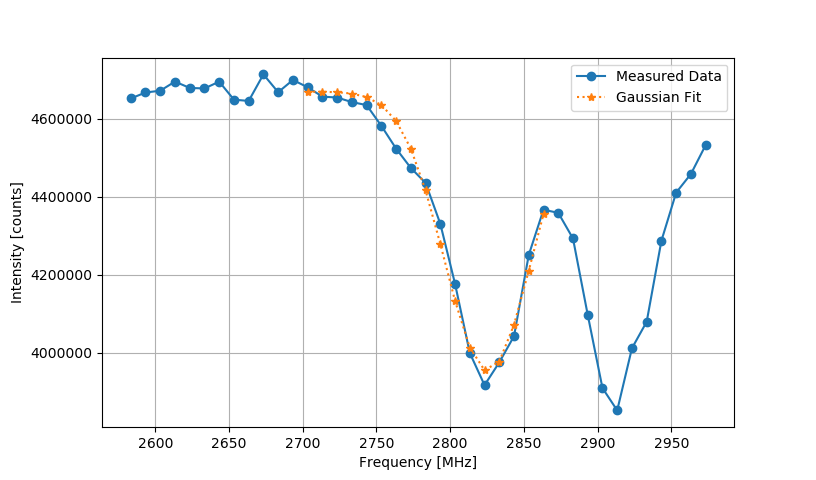
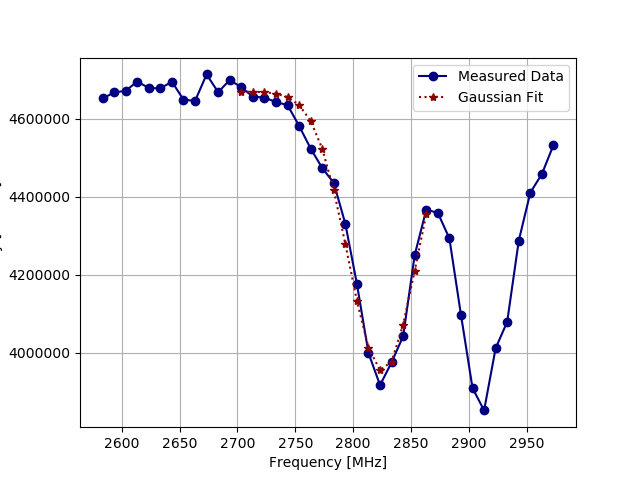
Updated odmr plots and added frequency_vs_voltage analysis.

diff --git a/plot_data.py b/plot_data.py
@@ -4,16 +4,36 @@ import numpy as np
 from scipy.optimize import curve_fit
 
 
-from scripts.math_functions import gaussian, exponential, exponentially_decaying_gaussian, exponentially_decaying_cosine, scale_values_to_unity, exponentially_decaying_sine
+from scripts.math_functions import gaussian, exponential, exponentially_decaying_gaussian, exponentially_decaying_cosine, scale_values_to_unity, exponentially_decaying_sine, linear_function
 from scripts.data_handling import compute_background_intensity, adjust_intensity, trim_data, read_data, average_data
 
 
+def plot_data_voltage_frequency_correlation(x_values, y_values):
+	popt = curve_fit(linear_function, x_values, y_values)
+	slope, interceipt = popt[0]
+
+	y_values_fit = linear_function(x_values, slope, interceipt)
+
+	plt.plot(x_values, y_values, 'o-', label='Measured Data', color="navy")
+	plt.plot(x_values, y_values_fit, '*',
+			 label=f'Fit Data with y = {slope:.2f} $\cdot$ x [ MHz/V] + {interceipt:.2f} [MHz]', color="darkred")
+
+	plt.grid()
+
+	plt.xlabel("Voltage [V]")
+	plt.ylabel("Frequency [MHz]")
+
+	plt.legend()
+
+	plt.show()
+
+
 def plot_data(x_values, y_values, fit_function):
-	plt.plot(x_values, y_values, 'o-', label='Measured Data')
+	plt.plot(x_values, y_values, 'o-', label='Measured Data', color="navy")
 
 	try:
-		background = compute_background_intensity(intensity_values=y_values, frequency_values=x_values, frequency_limit=2750)
-	except ZeroDivisionError:
+		background = compute_background_intensity(intensity_values=y_values, frequency_values=x_values, frequency_limit=[0, 2750])
+	except Exception:
 		background = 4718883.78
 
 	y_values = adjust_intensity(intensity_values=y_values, ground_level=background)
@@ -28,7 +48,7 @@ def plot_data(x_values, y_values, fit_function):
 
 	y_values = adjust_intensity(intensity_values=y_values, ground_level=background)
 
-	plt.plot(values_x_filtered, y_values, '*:', label='Gaussian Fit')
+	plt.plot(values_x_filtered, y_values, '*:', label='Gaussian Fit', color="darkred")
 
 	plt.legend()
 	plt.grid()
@@ -396,12 +416,13 @@ def plot_data_echo_50ns(x_values, y_values):
 
 
 def main():
-	# voltage, frequency, intensity = read_data("data/odmr_118")
+	voltage, frequency, intensity = read_data("data/odmr_118")
 	# plot_data(frequency, intensity, fit_function=gaussian)
-	#
+	plot_data_voltage_frequency_correlation(voltage, frequency)
+
 	# voltage, frequency, intensity = read_data("data/odmr2_118")
 	# plot_data(frequency, intensity, fit_function=gaussian)
-	#
+
 	# voltage, frequency, intensity = read_data("data/odmr_zoom_118")
 	# plot_data(frequency, intensity, fit_function=gaussian)
 
@@ -414,8 +435,8 @@ def main():
 	# plot_data_echo(time, intensity)
 	# time, intensity = read_data("data/Echo_118", data_format="time")
 
-	time, intensity = read_data("data/Echo_50ns_118", data_format="time")
-	plot_data_echo_50ns(time, intensity)
+	# time, intensity = read_data("data/Echo_50ns_118", data_format="time")
+	# plot_data_echo_50ns(time, intensity)
 
 
 if __name__ == "__main__":

diff --git a/scripts/math_functions.py b/scripts/math_functions.py
@@ -27,3 +27,8 @@ def scale_values_to_unity(y_values, request_max=False):
 		reference_value = max(y_values)
 	normalization = 1 / reference_value
 	return normalization
+
+
+def linear_function(x, slope, interceipt):
+	return x * slope + interceipt
+
